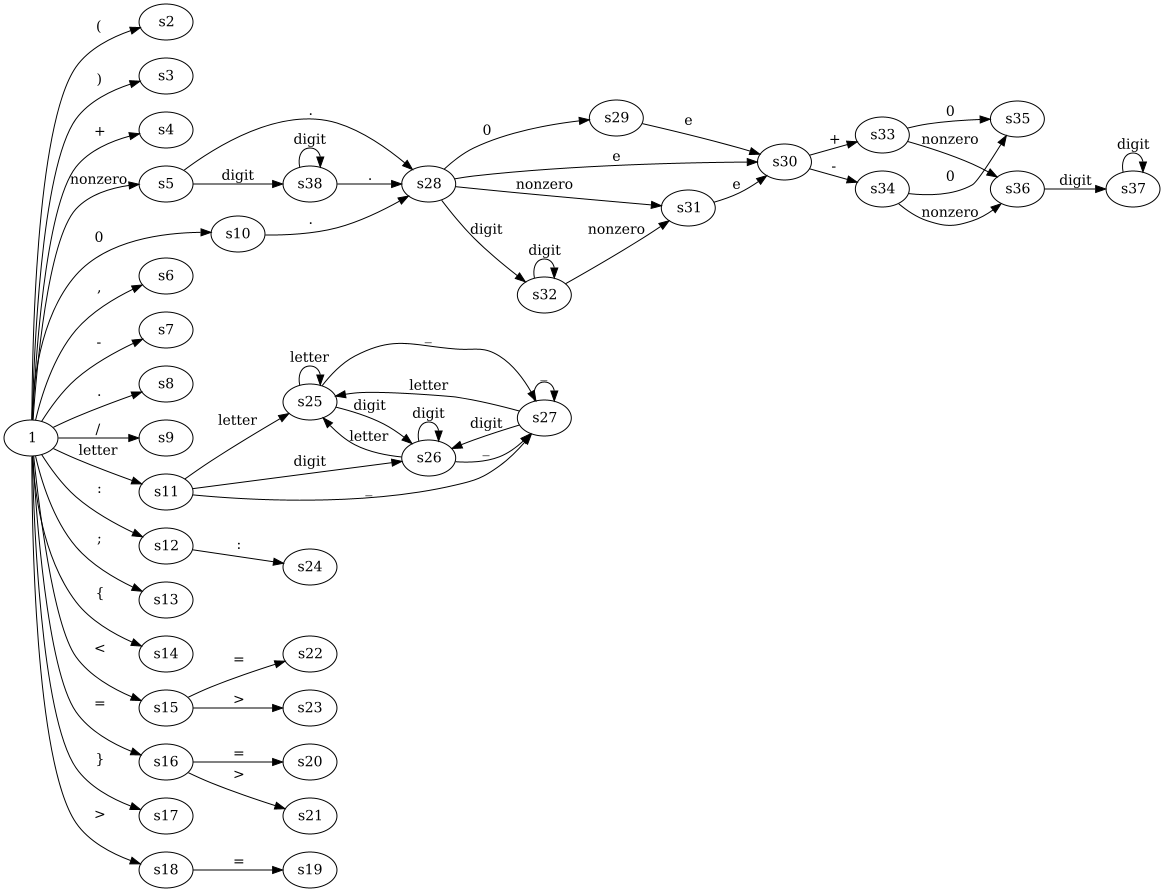
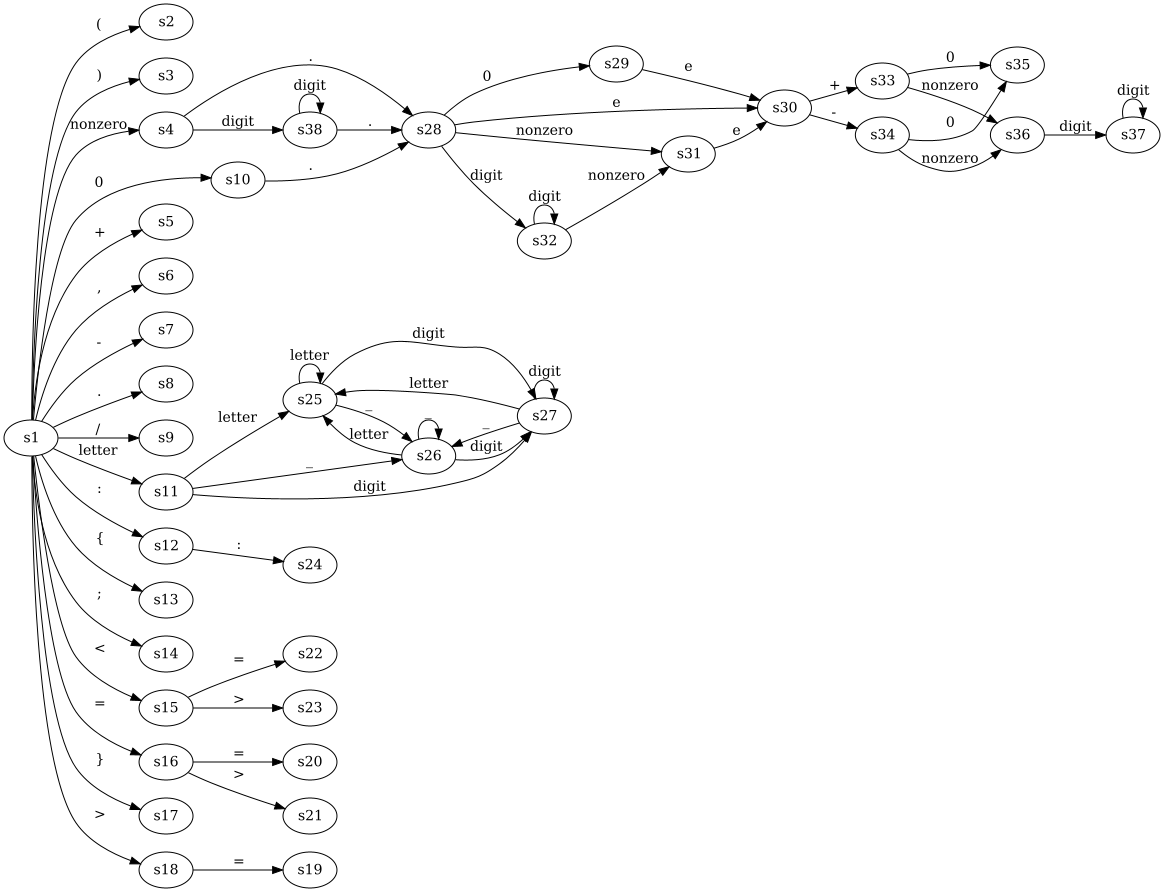
put s in first node

diff --git a/src/DfaGeneration/AutomataVisualizer.java b/src/DfaGeneration/AutomataVisualizer.java
@@ -26,7 +26,7 @@ public class AutomataVisualizer {
 
         int i = 1;
         Stack<StateNodePair> graphStack = new Stack<StateNodePair>();
-        MutableNode baseNode = mutNode(String.valueOf(i++));
+        MutableNode baseNode = mutNode(String.valueOf("s" + i++));
         graphStack.add(new StateNodePair(entry, baseNode));
         HashMap<State, MutableNode> seen = new HashMap<State, MutableNode>();
         seen.put(entry, baseNode);
